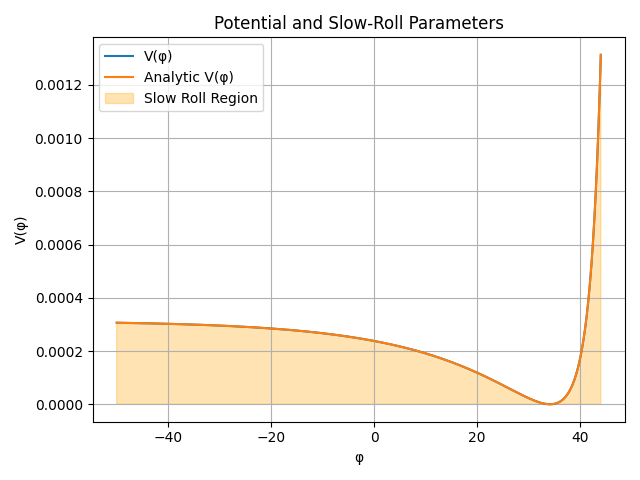
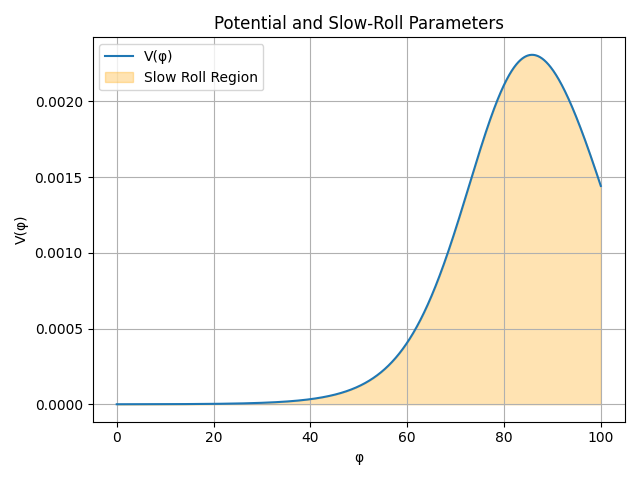
CAse II with edits

diff --git a/Python/PPotenial.py b/Python/PPotenial.py
@@ -14,18 +14,19 @@ from scipy.integrate import solve_ivp
 
 # Parameters
 Nend = 70 #end of efolds
-m    = 1.0    # inflaton mass
-M    = 1.0    # Planck mass
-phi0 = 1.5    # non‑propagating field
-a    = 50.0   # alpha
-b    = 5.0    # beta
-d    = 1.5    # potential minimum parameter
-k = 1
-g = 1
+# --- Your fixed model parameters ---
+m    = 1.0
+M    = 7
+phi0 = 20
+a    = 50.0
+b    = 10.0
+c    = 0    # your 'd' constant from above
+# Domain for phi
+g = 30
 D = np.sqrt( - g**2 / 4 + a*b)
 k = 1 # this is sqrt((k-6\beta)/2\beta)
 mo = 1000000
-c =  d  # integration constant (minima @ 0c + displacement)  #  add this later -f*phi0*np.arcsinh(-s/(2*f)) +
+c =  0  # integration constant (minima @ 0c + displacement)  #  add this later -f*phi0*np.arcsinh(-s/(2*f)) +
 
 eh = 0.2 #initial slow roll parameter (1/2)*(dp/dN)**2
 
@@ -96,7 +97,7 @@ sr_0 = np.zeros(len(Nr)-len(sr_))
 sr_ = np.append(sr_,sr_0)
 
 # Define a range of phi values
-phi = np.linspace(-50, 44, 5000)
+phi = np.linspace(0, 100, 5000)
 
 exit_index = np.argmax(e >= 1)  # first index where slow-roll fails
 phi_exit_H = ps[exit_index]
